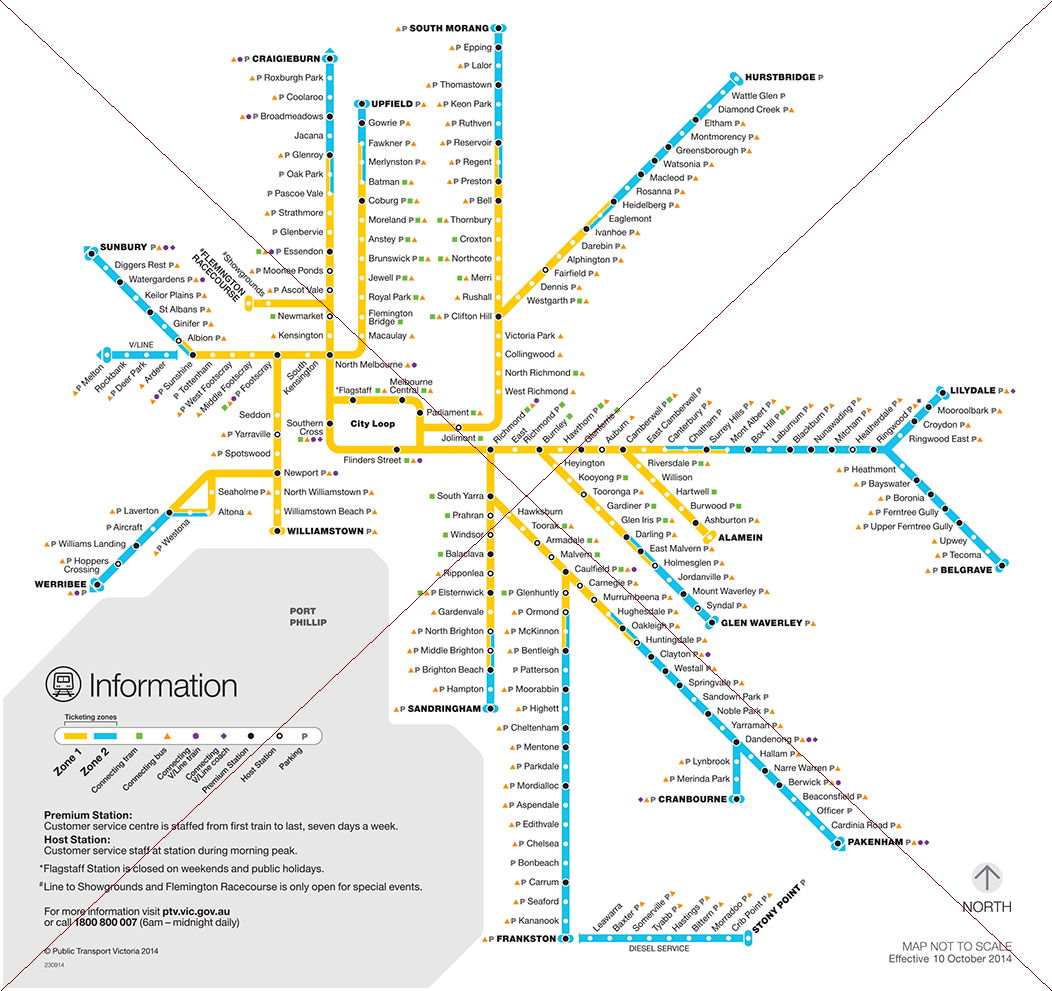
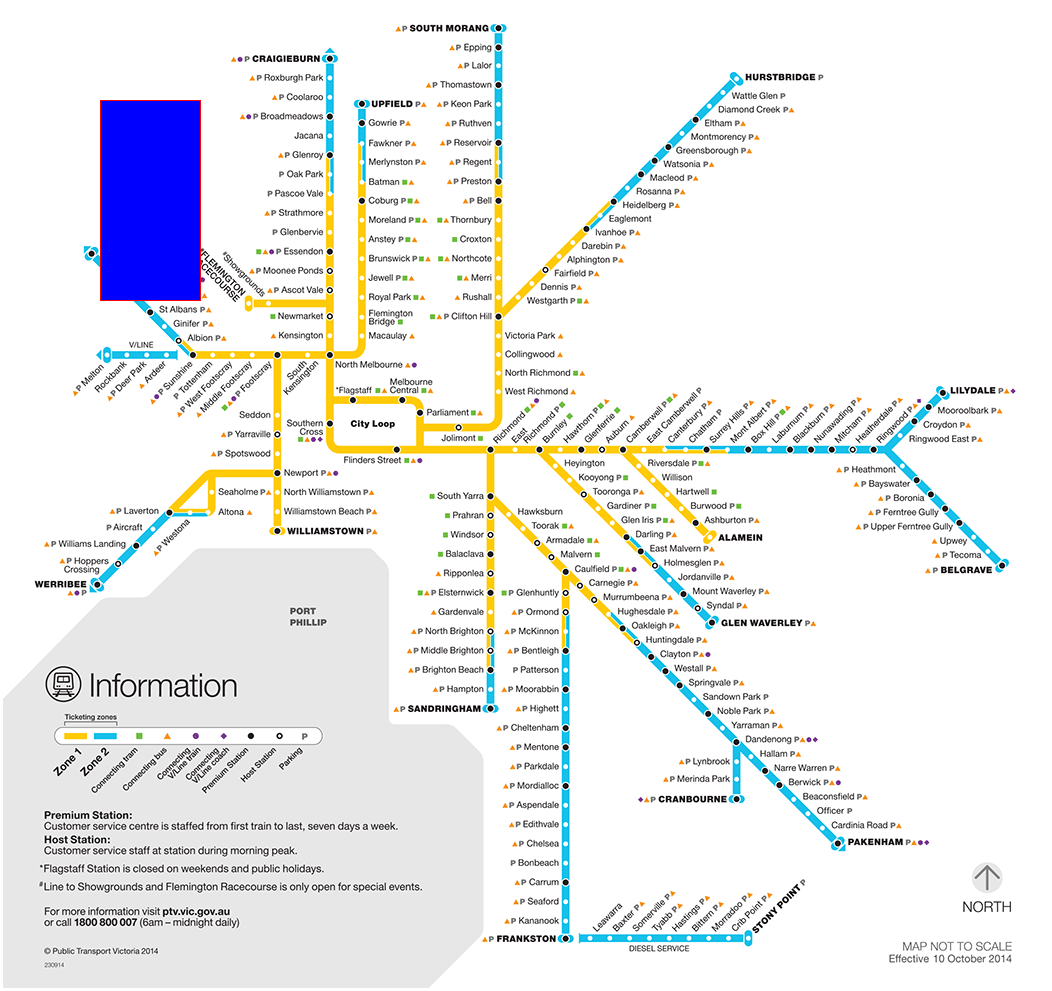
do pixels quick

Changed region(s): [[0.0913, 0.0908, 0.2129, 0.3027]]

diff --git a/stage3.py b/stage3.py
@@ -1,14 +1,32 @@
-from PIL import Image, ImageDraw
 import sys
+import re
+from PIL import Image, ImageDraw
 
-# Load metro image to modify:
-im = Image.open('assets/metro.png')
 
-# Draw box around station:
-draw = ImageDraw.Draw(im)
-draw.line((0, 0) + im.size, fill=128)
-draw.line((0, im.size[1], im.size[0], 0), fill=128)
-del draw
+def get_station_pixel_points():
+	try:
+		pixels = open("StationPixelLocation.txt", "r")
+	except IOError as e:
+		print("ERROR: 'stops.txt' file not found.")
+		sys.exit()
 
-# Save new image:
-im.save('assets/metroModified.png', "PNG")
+	points = ()
+
+	for l in pixels:
+		if not l:
+			continue
+		l = l.lower()  # convert to lowercase
+		l = re.findall('"([^"]*)"', l)  # extract/separate info
+		print(l)
+		l[1] = re.sub('\(.*?\)', '', l[1])  # remove text in brackets
+
+
+
+def draw_pic():
+	# Load metro image to modify:
+	get_station_pixel_points()
+	im = Image.open('assets/metro.png')
+	dr = ImageDraw.Draw(im)
+	dr.rectangle(((100, 100), (200, 300)), fill="blue", outline="red")
+	del dr
+	im.save('assets/metroModified.png', "PNG")

diff --git a/stage2.py b/stage2.py
@@ -1,7 +1,7 @@
-#import stage1
 import re
 import datetime
 from stage1 import calc_date, get_station_list, get_weather_report
+from stage3 import draw_pic
 import webserver
 
 ampm = ('AM', 'PM')
@@ -99,8 +99,11 @@ def respond2webpage(formData):
 			location = (s[1], s[2], s[3])
 			break
 
+	print(formData[pageinfo[0]])
+
 	# Draw box around station name:
-	import stage3
+	# print('dsdsdsdsddsdsdsdsdsdsdsdsdsdsdsdsdsddsdsdsd')
+	draw_pic()
 
 	# Initialisation:
 	data = '<html>'
@@ -112,5 +115,3 @@ def respond2webpage(formData):
 	data += '</body></html>'
 
 	return data
-
-

diff --git a/stage1.py b/stage1.py
@@ -59,11 +59,11 @@ def get_station_list():
 	stations = []
 
 	for l in stops:
-		l = l.lower()  # convert to lowercase
-		l = re.findall('"([^"]*)"', l)  # extract/separate info
-
 		if not l:  # skip any blank lines (line 1)
 			continue
+
+		l = l.lower()  # convert to lowercase
+		l = re.findall('"([^"]*)"', l)  # extract/separate info
 
 		l[1] = re.sub('\(.*?\)', '', l[1])  # remove text in brackets
 		stations.append(l)
